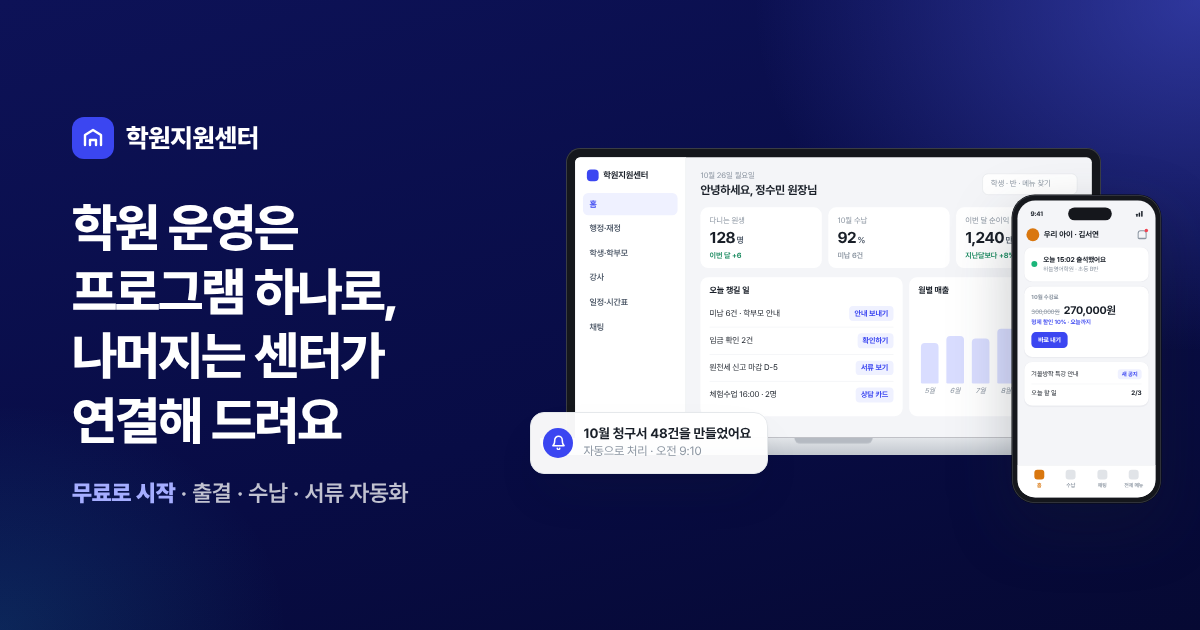
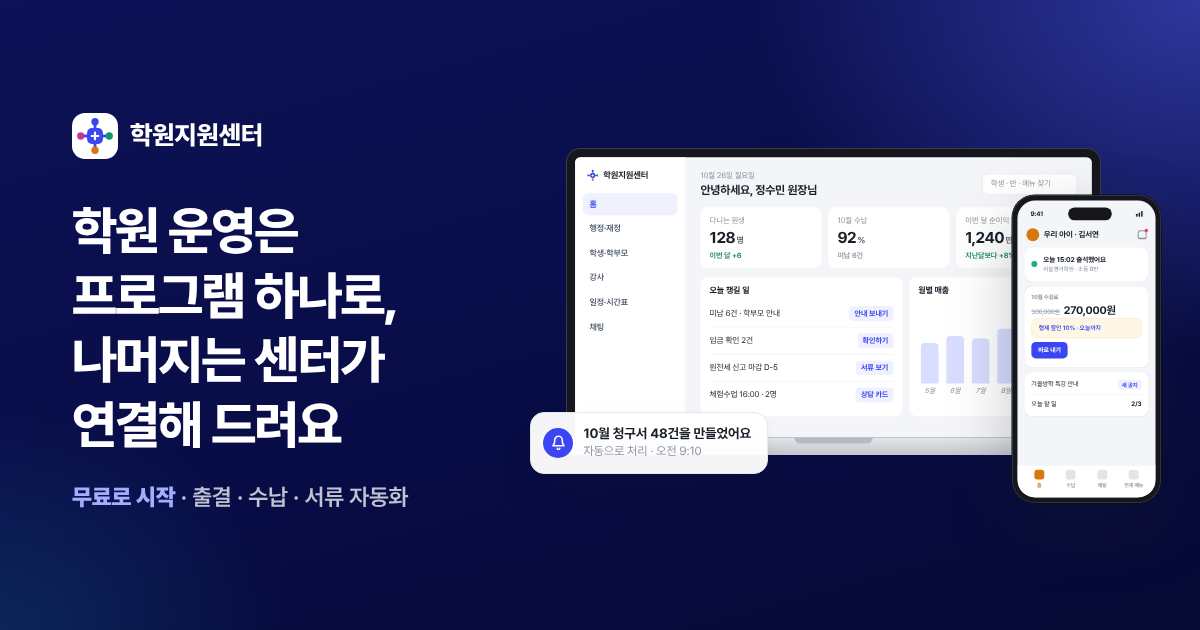
새 로고(심볼마크)로 전체 교체: 머리글 · 프로그램 · 탭 아이콘 · 앱 아이콘 · 알림 아이콘 · 공유 미리보기 · 노트북 그림
Claude-Session: https://claude.ai/code/session_01MVaVmcqrGUAxqJgxqJ2J3v

diff --git a/index.html b/index.html
@@ -10,14 +10,14 @@
 <meta property="og:title" content="학원지원센터 — 학원 운영은 프로그램 하나로, 나머지는 센터가 연결해 드려요">
 <meta property="og:description" content="출결·수납·재정·교육청 서류 자동화와 학생·학부모 관리를 원장·강사·학부모·학생이 함께 쓰는 운영 프로그램은 무료로 시작해요. 홍보 대행·유학 캠프 제휴·강사 구하기는 필요할 때만 상담 후 진행해요.">
 <meta property="og:url" content="https://academysupportcenter.vercel.app/">
-<meta property="og:image" content="https://academysupportcenter.vercel.app/assets/og.png?v=4">
+<meta property="og:image" content="https://academysupportcenter.vercel.app/assets/og.png?v=5">
 <meta property="og:image:width" content="1200">
 <meta property="og:image:height" content="630">
 <meta property="og:locale" content="ko_KR">
 <meta name="twitter:card" content="summary_large_image">
 <meta name="twitter:title" content="학원지원센터 — 학원 운영은 프로그램 하나로, 나머지는 센터가 연결해 드려요">
 <meta name="twitter:description" content="출결·수납·재정·교육청 서류 자동화와 학생·학부모 관리를 원장·강사·학부모·학생이 함께 쓰는 운영 프로그램은 무료로 시작해요. 홍보 대행·유학 캠프 제휴·강사 구하기는 필요할 때만 상담 후 진행해요.">
-<meta name="twitter:image" content="https://academysupportcenter.vercel.app/assets/og.png?v=4">
+<meta name="twitter:image" content="https://academysupportcenter.vercel.app/assets/og.png?v=5">
 <meta name="theme-color" content="#ffffff" data-light="#ffffff" data-dark="#0a0d2a">
 <script>try{var t=localStorage.getItem('asc-theme');if(t==='dark'||t==='light')document.documentElement.dataset.theme=t}catch(e){}</script>
 <link rel="canonical" href="https://academysupportcenter.vercel.app/">
@@ -37,7 +37,7 @@
 <!-- 위쪽 머리글: 로고 · 메뉴 · 로그인 / 무료로 시작하기 (내리면 아래 선이 생겨요) -->
 <header class="site-top" id="siteTop">
   <div class="wrap top-in">
-    <a href="/" class="logo"><span class="logo-mark"><svg viewBox="0 0 24 24" fill="none" stroke="currentColor" stroke-width="2.4" stroke-linecap="round" stroke-linejoin="round"><path d="M4 19V9l8-5 8 5v10"/><path d="M9 19v-5h6v5"/></svg></span>학원지원센터</a>
+    <a href="/" class="logo"><span class="logo-mark"><svg viewBox="0 0 120 120" aria-hidden="true"><g fill="#3B46EE"><rect x="55.5" y="18" width="9" height="84"/><rect x="18" y="55.5" width="84" height="9"/><rect x="35" y="35" width="50" height="50" rx="15"/><circle cx="60" cy="15" r="11.5"/></g><circle cx="105" cy="60" r="11.5" fill="#13926B"/><circle cx="60" cy="105" r="11.5" fill="#D97613"/><circle cx="15" cy="60" r="11.5" fill="#C1388C"/><g fill="#fff"><rect x="56.5" y="46" width="7" height="28" rx="3.5"/><rect x="46" y="56.5" width="28" height="7" rx="3.5"/></g></svg></span>학원지원센터</a>
     <nav class="top-nav" aria-label="첫 화면 메뉴"><a href="/#program-sec">운영 프로그램</a><a href="/#mobile-sec">휴대폰에서</a><a href="/#service-sec">추가 서비스</a><a href="/#story-sec">이용 사례</a><a href="/jobs">강사 채용</a></nav>
     <span class="top-r"><button type="button" class="theme-btn" data-theme-toggle aria-label="화면 밝기 바꾸기"></button><a class="btn ghost sm" href="#login" id="topLogin">로그인</a><a class="btn primary sm top-start" href="#signup"><span><span class="xs-hide">무료로 </span>시작하기</span></a></span>
   </div>
@@ -945,7 +945,7 @@ function renderPanel() {
 const footCol = (t, links) => `<div><b>${t}</b>${links.map(([h, x, ext]) => `<a href="${h}"${ext ? ' target="_blank" rel="noopener"' : ''}>${x}</a>`).join('')}</div>`;
 document.getElementById('siteFoot').innerHTML = `<div class="wrap">
   <div class="foot-top">
-    <div class="foot-brand"><span class="logo"><span class="logo-mark"><svg viewBox="0 0 24 24" fill="none" stroke="currentColor" stroke-width="2.4" stroke-linecap="round" stroke-linejoin="round"><path d="M4 19V9l8-5 8 5v10"/><path d="M9 19v-5h6v5"/></svg></span>학원지원센터</span><p>고객센터 <b>${SITE_ORG.tel}</b><br>${SITE_ORG.hours} · ${SITE_ORG.mail}</p></div>
+    <div class="foot-brand"><span class="logo"><span class="logo-mark"><svg viewBox="0 0 120 120" aria-hidden="true"><g fill="#3B46EE"><rect x="55.5" y="18" width="9" height="84"/><rect x="18" y="55.5" width="84" height="9"/><rect x="35" y="35" width="50" height="50" rx="15"/><circle cx="60" cy="15" r="11.5"/></g><circle cx="105" cy="60" r="11.5" fill="#13926B"/><circle cx="60" cy="105" r="11.5" fill="#D97613"/><circle cx="15" cy="60" r="11.5" fill="#C1388C"/><g fill="#fff"><rect x="56.5" y="46" width="7" height="28" rx="3.5"/><rect x="46" y="56.5" width="28" height="7" rx="3.5"/></g></svg></span>학원지원센터</span><p>고객센터 <b>${SITE_ORG.tel}</b><br>${SITE_ORG.hours} · ${SITE_ORG.mail}</p></div>
     ${footCol('운영 프로그램', PROGRAM_AREAS.map(a => [`/area/${a.id}`, a.name]))}
     ${footCol('추가 서비스', SERVICE_AREAS.map(a => [`/area/${a.id}`, a.name]))}
     ${footCol('도움', [['#faq', '자주 묻는 질문 · 비용'], ['#ask', '가입 전 문의'], ['#check', '진행 상황 보기'], ['/jobs', '강사 채용']])}

diff --git a/assets/app.js b/assets/app.js
@@ -50,6 +50,8 @@ const ICON = {
   eye: '<path d="M2 12s4-7 10-7 10 7 10 7-4 7-10 7S2 12 2 12z"/><circle cx="12" cy="12" r="3"/>',
   pause: '<rect x="6" y="5" width="4" height="14" rx="1"/><rect x="14" y="5" width="4" height="14" rx="1"/>'
 };
+// 학원지원센터 로고(심볼마크): 가운데 + (지원) · 네 점은 원장 파랑 · 강사 초록 · 학부모 주황 · 학생 분홍
+const LOGO_MARK = '<svg viewBox="0 0 120 120" aria-hidden="true"><g fill="#3B46EE"><rect x="55.5" y="18" width="9" height="84"/><rect x="18" y="55.5" width="84" height="9"/><rect x="35" y="35" width="50" height="50" rx="15"/><circle cx="60" cy="15" r="11.5"/></g><circle cx="105" cy="60" r="11.5" fill="#13926B"/><circle cx="60" cy="105" r="11.5" fill="#D97613"/><circle cx="15" cy="60" r="11.5" fill="#C1388C"/><g fill="#fff"><rect x="56.5" y="46" width="7" height="28" rx="3.5"/><rect x="46" y="56.5" width="28" height="7" rx="3.5"/></g></svg>';
 const ic = (name, cls = 'icon') => `<svg class="${cls}" viewBox="0 0 24 24" fill="none" stroke="currentColor" stroke-width="2" stroke-linecap="round" stroke-linejoin="round">${ICON[name]}</svg>`;
 
 const params = new URLSearchParams(location.search);
@@ -9384,7 +9386,7 @@ async function adminApplyScreen(user) {
   $('.layout').style.display = 'block';
   $('.layout').innerHTML = `
   <div class="picker"><div class="card">
-    <span class="logo"><span class="logo-mark">${ic('shield')}</span>학원지원센터 · 센터 관리자 신청</span>
+    <span class="logo"><span class="logo-mark">${LOGO_MARK}</span>학원지원센터 · 센터 관리자 신청</span>
     ${last && last.status === 'pending' ? `
     <h1>신청을 받았어요</h1>
     <p class="muted">${md(last.created_at.slice(0, 10))}에 신청했어요. 지금 센터 관리자가 확인하고 수락하면, 이 화면에서 "다시 확인"을 누르거나 다시 로그인하면 센터 관리 화면이 열려요.</p>
@@ -9423,7 +9425,7 @@ function rolePicker(user, nameOnly = false) {
   $('.layout').style.display = 'block';
   $('.layout').innerHTML = `
   <div class="picker"><form class="card" id="pickForm" novalidate>
-    <span class="logo"><span class="logo-mark">${ic('home')}</span>학원지원센터</span>
+    <span class="logo"><span class="logo-mark">${LOGO_MARK}</span>학원지원센터</span>
     <h1>${nameOnly ? '이름을 정해 주세요' : '반가워요! 한 가지만 알려 주세요'}</h1>
     <p class="muted">${nameOnly ? '구글 계정 이름이 다른 회원과 같아요. 이름은 다른 회원과 겹칠 수 없어서, 구별되는 이름으로 정해 주세요. (예: 홍길동2, 홍길동 하늘영어)' : '역할에 맞는 화면으로 안내해 드려요. 나중에 바꿀 수 있어요.'}</p>
     ${nameOnly ? '' : `<label class="f">어떤 분이세요?
@@ -9682,7 +9684,7 @@ function onboarding(user) {
   $('.layout').style.display = 'block';
   $('.layout').innerHTML = `
   <div class="picker"><div class="card">
-    <span class="logo"><span class="logo-mark">${ic('home')}</span>학원지원센터</span>
+    <span class="logo"><span class="logo-mark">${LOGO_MARK}</span>학원지원센터</span>
     <h1>${esc(PROFILE.name || '')} ${who}, 학원을 연결해 주세요</h1>
     ${owner ? `
     <form class="f-stack" id="makeForm" novalidate>
@@ -11065,7 +11067,7 @@ function suspendedScreen(user, cur) {
   $('.layout').style.display = 'block';
   $('.layout').innerHTML = `
   <div class="picker"><div class="card">
-    <span class="logo"><span class="logo-mark">${ic('home')}</span>학원지원센터</span>
+    <span class="logo"><span class="logo-mark">${LOGO_MARK}</span>학원지원센터</span>
     <h1>${esc(cur.name)} 이용이 잠시 멈춰 있어요</h1>
     <p class="muted">${staff ? '센터와의 이용 계약이 아직이거나 끝나서 이 학원 화면을 잠시 닫아 두었어요. 원생 · 출결 · 수납 같은 자료는 지우지 않고 그대로 있어서, 센터가 다시 열면 그대로 이어서 쓸 수 있어요.' : '학원에서 이 프로그램 이용을 잠시 멈췄어요. 출결 · 수납 · 공지는 학원에 직접 문의해 주세요.'}</p>
     ${cur.suspend_note ? `<p class="msg" style="display:block">센터 안내: ${esc(cur.suspend_note)}</p>` : ''}

diff --git a/app.html b/app.html
@@ -10,14 +10,14 @@
 <meta property="og:title" content="학원지원센터">
 <meta property="og:description" content="행정 지원부터 강사 교육·채용, 제휴(MOU), 홍보, 학생·학부모 관리까지. 학원 운영에 필요한 모든 지원을 한곳에서.">
 <meta property="og:url" content="https://academysupportcenter.vercel.app/app">
-<meta property="og:image" content="https://academysupportcenter.vercel.app/assets/og.png?v=4">
+<meta property="og:image" content="https://academysupportcenter.vercel.app/assets/og.png?v=5">
 <meta property="og:image:width" content="1200">
 <meta property="og:image:height" content="630">
 <meta property="og:locale" content="ko_KR">
 <meta name="twitter:card" content="summary_large_image">
 <meta name="twitter:title" content="학원지원센터">
 <meta name="twitter:description" content="행정 지원부터 강사 교육·채용, 제휴(MOU), 홍보, 학생·학부모 관리까지. 학원 운영에 필요한 모든 지원을 한곳에서.">
-<meta name="twitter:image" content="https://academysupportcenter.vercel.app/assets/og.png?v=4">
+<meta name="twitter:image" content="https://academysupportcenter.vercel.app/assets/og.png?v=5">
 <meta name="theme-color" content="#070a3d">
 <link rel="icon" href="/assets/favicon.svg" type="image/svg+xml">
 <link rel="manifest" href="/manifest.webmanifest">
@@ -34,7 +34,7 @@
 <body>
 <div class="layout">
   <aside class="side" id="side">
-    <a href="/" class="logo"><span class="logo-mark"><svg viewBox="0 0 24 24" fill="none" stroke="currentColor" stroke-width="2.4" stroke-linecap="round" stroke-linejoin="round"><path d="M4 19V9l8-5 8 5v10"/><path d="M9 19v-5h6v5"/></svg></span>학원지원센터</a>
+    <a href="/" class="logo"><span class="logo-mark"><svg viewBox="0 0 120 120" aria-hidden="true"><g fill="#3B46EE"><rect x="55.5" y="18" width="9" height="84"/><rect x="18" y="55.5" width="84" height="9"/><rect x="35" y="35" width="50" height="50" rx="15"/><circle cx="60" cy="15" r="11.5"/></g><circle cx="105" cy="60" r="11.5" fill="#13926B"/><circle cx="60" cy="105" r="11.5" fill="#D97613"/><circle cx="15" cy="60" r="11.5" fill="#C1388C"/><g fill="#fff"><rect x="56.5" y="46" width="7" height="28" rx="3.5"/><rect x="46" y="56.5" width="28" height="7" rx="3.5"/></g></svg></span>학원지원센터</a>
     <div class="acad-switch" id="acad"></div>
     <nav id="nav"></nav>
     <div class="side-foot">

diff --git a/assets/site.css b/assets/site.css
@@ -44,7 +44,10 @@ body { background: var(--bg); color: var(--ink); font-size: 16px; line-height: 1
 .link:hover span { transform: translateX(3px); }
 .link.sm { font-size: 14px; }
 .u { text-decoration: underline; text-underline-offset: 3px; color: var(--blue-600); font-weight: 700; }
-.logo-mark { background: var(--blue-600); box-shadow: none; border-radius: 9px; }
+.logo-mark { background: none; box-shadow: none; border-radius: 0; padding: 0; }
+.foot .logo-mark { background: #fff; border-radius: 9px; padding: 3px; }
+:root[data-theme="dark"] .site-top .logo-mark { background: #fff; border-radius: 9px; padding: 3px; }
+@media (prefers-color-scheme: dark) { :root:not([data-theme="light"]) .site-top .logo-mark { background: #fff; border-radius: 9px; padding: 3px; } }
 
 /* 머리글 */
 .site-top { position: sticky; top: 0; z-index: 30; background: color-mix(in srgb, var(--bg) 88%, transparent); backdrop-filter: saturate(1.6) blur(14px); -webkit-backdrop-filter: saturate(1.6) blur(14px); border-bottom: 1px solid transparent; transition: border-color .2s, box-shadow .2s; }
@@ -216,7 +219,8 @@ body { background: var(--bg); color: var(--ink); font-size: 16px; line-height: 1
 .m-base::before { content: ""; position: absolute; left: 50%; top: 0; width: 120px; height: 9px; margin-left: -60px; border-radius: 0 0 10px 10px; background: #b5bac2; }
 .m-side { background: #fff; border-right: 1px solid #eceef1; padding: 18px 12px; display: grid; gap: 3px; align-content: start; }
 .m-logo { display: flex; align-items: center; gap: 7px; font-size: 13.5px; margin: 0 6px 14px; }
-.m-logo i { width: 18px; height: 18px; border-radius: 6px; background: var(--blue-600); }
+.m-logo i { width: 18px; height: 18px; display: block; flex: none; }
+.m-logo i svg { width: 100%; height: 100%; display: block; }
 .m-side span { padding: 8px 10px; border-radius: 8px; font-size: 13px; font-weight: 600; color: var(--sub); }
 .m-side span.on { background: var(--blue-50); color: var(--blue-600); }
 .m-main { padding: 20px 22px; display: grid; gap: 14px; align-content: start; }

diff --git a/assets/mock.js b/assets/mock.js
@@ -178,7 +178,7 @@ const LAP_SCREENS = {
 const laptopMock = (role = 'owner') => { const L = LAP_SCREENS[role]; return fitBox(LAP_W, LAP_H, `
   <div class="m-laptop r-${role}">
     <div class="m-lid"><div class="m-win">
-      <aside class="m-side"><b class="m-logo"><i></i>학원지원센터</b>${L.menu.map((t, i) => `<span class="${i ? '' : 'on'}">${t}</span>`).join('')}</aside>
+      <aside class="m-side"><b class="m-logo"><i><svg viewBox="0 0 120 120" aria-hidden="true"><g fill="#3B46EE"><rect x="55.5" y="18" width="9" height="84"/><rect x="18" y="55.5" width="84" height="9"/><rect x="35" y="35" width="50" height="50" rx="15"/><circle cx="60" cy="15" r="11.5"/></g><circle cx="105" cy="60" r="11.5" fill="#13926B"/><circle cx="60" cy="105" r="11.5" fill="#D97613"/><circle cx="15" cy="60" r="11.5" fill="#C1388C"/><g fill="#fff"><rect x="56.5" y="46" width="7" height="28" rx="3.5"/><rect x="46" y="56.5" width="28" height="7" rx="3.5"/></g></svg></i>학원지원센터</b>${L.menu.map((t, i) => `<span class="${i ? '' : 'on'}">${t}</span>`).join('')}</aside>
       <main class="m-main">
         <div class="m-head"><div><small>10월 26일 월요일</small><b>${L.hello}</b></div><span class="m-search">${role === 'owner' || role === 'teacher' ? '학생 · 반 · 메뉴 찾기' : '메뉴 찾기'}</span></div>
         <div class="m-stats">${L.stats.map(([k, v, u, n, up]) => `<div><small>${k}</small><b>${v}<em>${u}</em></b><i class="${up ? 'up' : ''}">${n}</i></div>`).join('')}</div>

diff --git a/assets/base.css b/assets/base.css
@@ -60,8 +60,9 @@ img { max-width: 100%; display: block; }
 .chip.mute { color: var(--muted); background: var(--sunk); }
 
 .logo { display: inline-flex; align-items: center; gap: 10px; font-weight: 800; font-size: 18px; letter-spacing: -.3px; }
-.logo-mark { width: 32px; height: 32px; border-radius: 10px; background: linear-gradient(135deg, var(--blue-400), var(--blue-600)); display: grid; place-items: center; color: #fff; box-shadow: 0 4px 14px rgba(59, 70, 241, .4); }
-.logo-mark svg { width: 18px; height: 18px; }
+/* 로고(심볼마크 assets/logo.svg): 흰 칸 위에 색 그대로 — 어두운 메뉴 · 남색 띠 위에서도 또렷하게 */
+.logo-mark { width: 32px; height: 32px; border-radius: 10px; background: #fff; display: grid; place-items: center; padding: 3px; box-shadow: 0 2px 10px rgba(15, 23, 60, .18); flex: none; }
+.logo-mark svg { width: 100%; height: 100%; display: block; }
 
 
 /* ---------- 다크 모드: 기기 설정을 따르거나(data-theme 없음) 버튼으로 고정(data-theme="dark") ---------- */

diff --git a/login.html b/login.html
@@ -6,7 +6,7 @@
 <title>학원지원센터</title>
 <meta property="og:title" content="학원지원센터 — 원장님은 가르치는 일에만, 나머지는 저희가 지원합니다">
 <meta property="og:description" content="행정 지원부터 강사 교육·채용, 제휴(MOU), 홍보, 학생·학부모 관리까지. 학원 운영에 필요한 모든 지원을 한곳에서.">
-<meta property="og:image" content="https://academysupportcenter.vercel.app/assets/og.png?v=4">
+<meta property="og:image" content="https://academysupportcenter.vercel.app/assets/og.png?v=5">
 <meta property="og:url" content="https://academysupportcenter.vercel.app/">
 <link rel="icon" href="assets/favicon.svg" type="image/svg+xml">
 <link rel="canonical" href="https://academysupportcenter.vercel.app/">

diff --git a/service.html b/service.html
@@ -6,7 +6,7 @@
 <title>학원지원센터</title>
 <meta property="og:title" content="학원지원센터 — 원장님은 가르치는 일에만, 나머지는 저희가 지원합니다">
 <meta property="og:description" content="행정 지원부터 강사 교육·채용, 제휴(MOU), 홍보, 학생·학부모 관리까지. 학원 운영에 필요한 모든 지원을 한곳에서.">
-<meta property="og:image" content="https://academysupportcenter.vercel.app/assets/og.png?v=4">
+<meta property="og:image" content="https://academysupportcenter.vercel.app/assets/og.png?v=5">
 <meta property="og:url" content="https://academysupportcenter.vercel.app/">
 <link rel="icon" href="assets/favicon.svg" type="image/svg+xml">
 <link rel="canonical" href="https://academysupportcenter.vercel.app/">

diff --git a/CLAUDE.md b/CLAUDE.md
@@ -116,6 +116,7 @@
 - 원천세 계산(`#admin/payroll`, `payroll` 원장만): 강사마다 구분(프리랜서 3.3% · 일용직 (일당-15만원)×2.7% 소액부징수 · 근로소득 · 직접) · 지급액만 넣으면 소득세 · 지방소득세 · 실지급액(`calcTax`), "재정 지출에도 넣기"(`expense_id`), 지난달 불러오기, 신고 서류로 넣기(`wht:월`), 엑셀. 서류 바로 만들기는 바로 받지 않고 `sheetEditor`에서 칸을 고치고 줄을 더한 뒤 엑셀로 받아요(합계는 다시 계산).
 - 자동으로 처리(`#admin/auto`, `academies.auto` = { bill: {on, day}, unpaid: {on, days}, paper: {on} }, 기록 `auto_logs`): pg_cron `asc-automations`가 매일 한국 9시 10분 `private.run_automations()` — 매달 day일 정해 둔 수강료로 청구서, 기한 지난 미납에 학부모(성인 학원은 수강생)께 원장 이름 채팅 한 번(`invoices.reminded_at`, `private.auto_message`), 지난달 지급이 있으면 원천세 · 1월엔 사업장현황 서류. "지금 한 번 해 보기"는 `run_my_automations(학원)`. 서류 자동이 켜져 있으면 앱을 열 때 `paperSuggestions`도 저절로 넣어요(`autoPaperOnOpen`). 원장 홈에 "저절로 처리한 일".
 - 첫 화면 진행 상황 보기(`#check`): 접수 번호 + 남긴 연락처 → `check_my_request(번호, 연락처)`(가입 안 해도 돼요). 접수 완료 화면 · 오른쪽 아래 링크에서 바로.
+- 로고(심볼마크): 가운데 둥근 사각형 + 흰 "+"(지원) · 상하좌우 네 점이 역할 색(위 원장 파랑 #3B46EE · 오른쪽 강사 초록 #13926B · 아래 학부모 주황 #D97613 · 왼쪽 학생 분홍 #C1388C). 원본 `assets/logo.svg`(탭 아이콘 `favicon.svg`도 같은 그림), 화면에는 인라인 SVG — 프로그램은 `app.js`의 `LOGO_MARK`, 첫 화면 · 앱 머리글은 html에 그대로, 노트북 그림은 `mock.js`의 `.m-logo`. `.logo-mark`는 흰 칸 위에 색 그대로(어두운 메뉴 · 남색 띠에서도 또렷하게), 첫 화면 밝은 머리글만 칸 없이. 앱 아이콘 `assets/icons/`(흰 바탕 · 알림 작은 아이콘 `badge-96`은 흰 실루엣 + 가운데 + 뚫음)는 로고 SVG를 찍어 만든 것 — 로고를 바꾸면 다시 찍기.
 - 공유 미리보기 이미지 `assets/og.png`는 첫 화면처럼 남색 그라데이션 + 첫 화면 문구 + 노트북 · 휴대폰 그림(`mock.js`의 `heroMock`을 1200×630으로 찍은 것). 이미지를 바꾸면 메신저가 새로 읽도록 html의 `og.png?v=` 숫자를 올리기.
 - 센터에 문의하기(`#help`, 원장 · 강사만 — 왼쪽 아래 카드): `submit_inquiry`로 보내고 내 문의 · 답변을 봐요. 관리자는 센터 관리 → 문의(`#center/inquiries`)에서 `answer_inquiry`. 학부모 · 학생 화면에는 센터 카드가 없어요.
 - 예시 계정의 날짜는 실제 오늘(`DATA.today = todayText()`), 오늘 출결 · 아이 오늘 일정은 오늘 요일에 수업이 있는 것만(일요일엔 없음). 예시 수납은 미납 목록(`DATA.unpaid`)으로 미납 수 · 금액을 계산해서 홈 · 목록 · 메뉴 숫자가 같아요.
